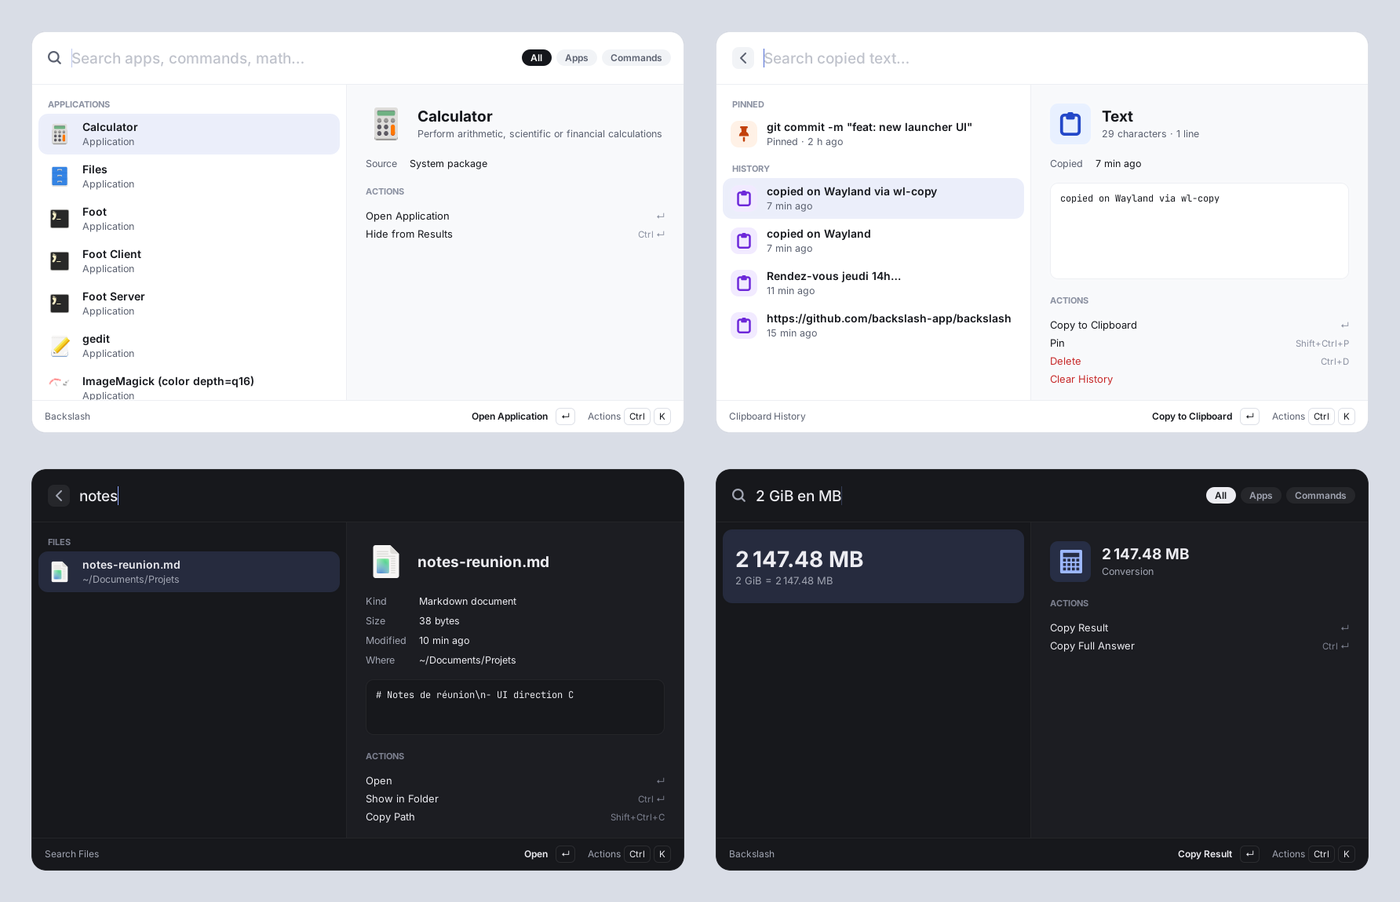
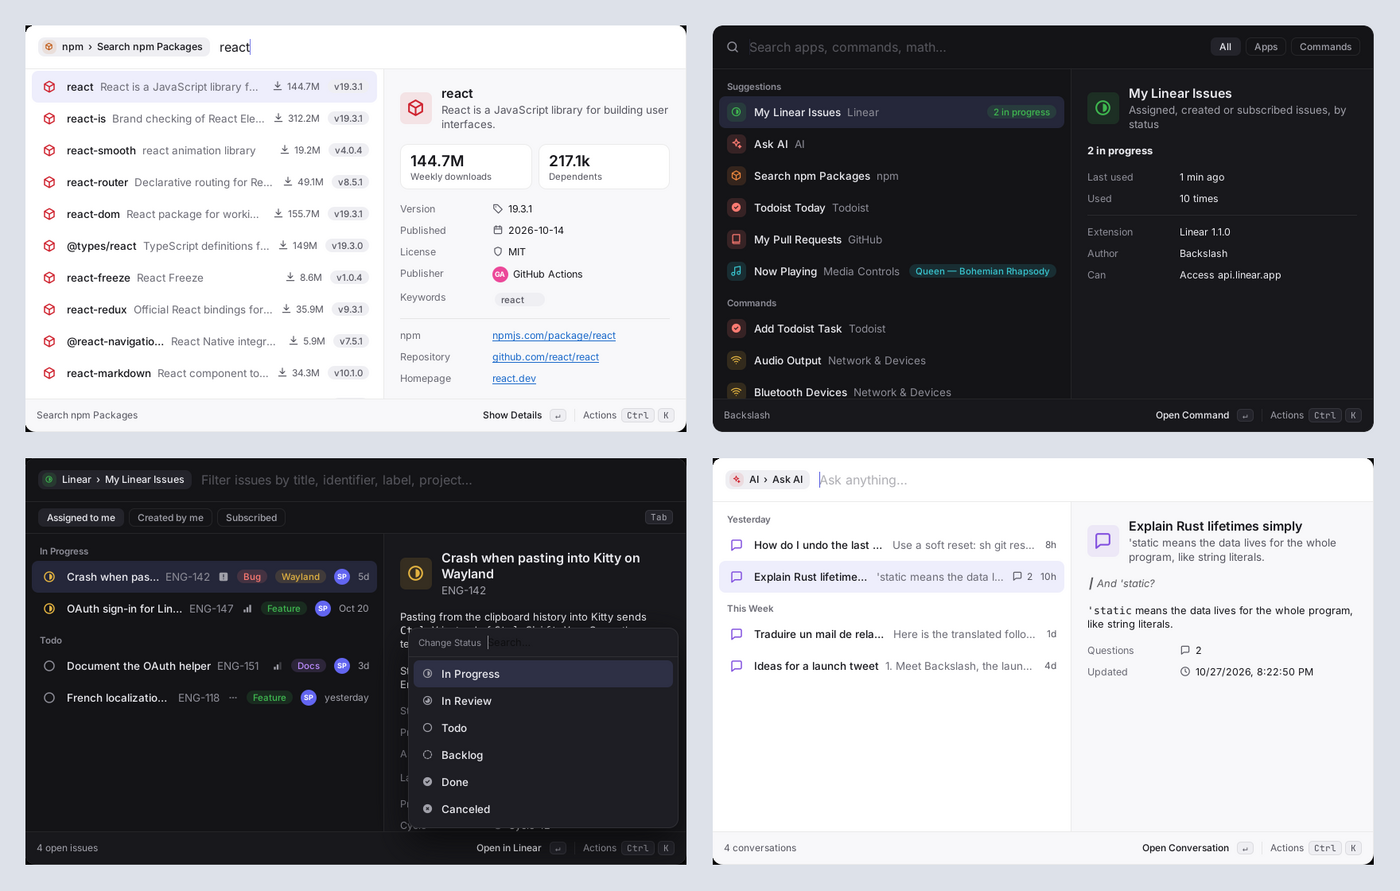
Refresh the README, screenshot and bundled extensions for the redesign
- New screenshot showing the redesigned launcher.
- README: preview panel, filters and submenus; the settings window and
  Ctrl+, to open it; accent and density in config.toml; every first-party
  extension; an npm example with a preview panel.
- ARCHITECTURE: glyphs, images and the settings window.
- npm and system extensions (the reference examples) use the new design:
  Backslash icons, downloads and dependents, metadata, sections.
- Ctrl+, opens the settings window.

Claude-Session: https://claude.ai/code/session_01WzDMDJteorsmKRm6FVPX94

diff --git a/extensions/npm/commands/search.ts b/extensions/npm/commands/search.ts
@@ -1,12 +1,20 @@
-import { action, copy, detail, list, open, storage } from "@backslash/api";
+import { action, copy, detail, Icons, type Item, list, meta, open, storage } from "@backslash/api";
 
 interface Package {
   name: string;
   version: string;
   description?: string;
+  keywords?: string[];
   date: string;
+  license?: string;
   links: { npm: string; homepage?: string; repository?: string };
   publisher?: { username: string };
+}
+
+interface Result {
+  package: Package;
+  downloads?: { weekly?: number };
+  dependents?: number | string;
 }
 
 async function remember(name: string) {
@@ -14,52 +22,86 @@ async function remember(name: string) {
   await storage.set("recent", [name, ...recent.filter((n) => n !== name)].slice(0, 10));
 }
 
-function item(pkg: Package) {
+/** 1234567 → "1.2M" */
+export function compact(n: number): string {
+  if (n >= 1e9) return `${(n / 1e9).toFixed(1).replace(/\.0$/, "")}B`;
+  if (n >= 1e6) return `${(n / 1e6).toFixed(1).replace(/\.0$/, "")}M`;
+  if (n >= 1e3) return `${(n / 1e3).toFixed(1).replace(/\.0$/, "")}k`;
+  return String(n);
+}
+
+/** "git+https://github.com/facebook/react.git" → "github.com/facebook/react" */
+export const shortUrl = (url: string) =>
+  url.replace(/^git\+/, "").replace(/^\w+:\/\//, "").replace(/\.git$/, "").replace(/\/$/, "").split("/").slice(0, 3)
+    .join("/");
+
+function metadata(pkg: Package) {
+  return [
+    meta.text("Version", pkg.version, { icon: Icons.tag }),
+    meta.text("Published", pkg.date.slice(0, 10), { icon: Icons.calendar }),
+    ...(pkg.license ? [meta.text("License", pkg.license, { icon: Icons.shield })] : []),
+    ...(pkg.publisher ? [meta.person("Publisher", pkg.publisher.username)] : []),
+    ...(pkg.keywords?.length ? [meta.tags("Keywords", pkg.keywords.slice(0, 6))] : []),
+    meta.separator(),
+    meta.link("npm", `npmjs.com/package/${pkg.name}`, pkg.links.npm),
+    ...(pkg.links.repository ? [meta.link("Repository", shortUrl(pkg.links.repository), pkg.links.repository)] : []),
+    ...(pkg.links.homepage ? [meta.link("Homepage", shortUrl(pkg.links.homepage), pkg.links.homepage)] : []),
+  ];
+}
+
+function item({ package: pkg, downloads, dependents }: Result): Item {
+  const stats = [
+    ...(downloads?.weekly !== undefined ? [{ label: "Weekly downloads", value: compact(downloads.weekly) }] : []),
+    ...(dependents !== undefined ? [{ label: "Dependents", value: compact(Number(dependents)) }] : []),
+  ];
   return {
     id: pkg.name,
     title: pkg.name,
     subtitle: pkg.description,
-    icon: "package-x-generic",
-    tags: [`v${pkg.version}`],
+    icon: { source: Icons.package, tint: "red" },
+    accessories: [
+      ...(downloads?.weekly !== undefined
+        ? [{ icon: Icons.download, text: compact(downloads.weekly), tooltip: "Weekly downloads" }]
+        : []),
+      { tag: `v${pkg.version}` },
+    ],
+    detail: { stats, metadata: metadata(pkg) },
     actions: [
       action("Show Details", async () => {
         await remember(pkg.name);
         return detail({
           title: pkg.name,
           markdown: `# ${pkg.name}\n\n${pkg.description ?? ""}\n\n\`\`\`sh\nnpm install ${pkg.name}\n\`\`\``,
-          metadata: {
-            Version: pkg.version,
-            Published: pkg.date.slice(0, 10),
-            Publisher: pkg.publisher?.username ?? "—",
-          },
+          stats,
+          metadata: metadata(pkg),
           actions: [open(pkg.links.npm, "Open on npmjs.com"), copy(`npm install ${pkg.name}`, "Copy Install Command")],
         });
-      }),
+      }, { icon: Icons.info }),
       open(pkg.links.npm, "Open on npmjs.com"),
-      ...(pkg.links.repository ? [open(pkg.links.repository, "Open Repository", { icon: "folder-remote" })] : []),
-      copy(`npm install ${pkg.name}`, "Copy npm install", { shortcut: "<Ctrl><Shift>c" }),
-      copy(pkg.name, "Copy Package Name"),
+      ...(pkg.links.repository ? [open(pkg.links.repository, "Open Repository", { icon: Icons.repository })] : []),
+      copy(`npm install ${pkg.name}`, "Copy npm install", { shortcut: "<Ctrl><Shift>c", section: "Copy" }),
+      copy(pkg.name, "Copy Package Name", { section: "Copy" }),
     ],
   };
 }
 
 export default list({
   placeholder: "Search npm packages…",
-  empty: { title: "Type to search the npm registry", icon: "system-search" },
+  empty: { title: "Type to search the npm registry", icon: Icons.search },
   async search(query, { signal }) {
     if (!query.trim()) {
       const recent = (await storage.get<string[]>("recent")) ?? [];
       return recent.map((name) => ({
         title: name,
         section: "Recently viewed",
-        icon: "document-open-recent",
+        icon: Icons.history,
         actions: [open(`https://www.npmjs.com/package/${name}`, "Open on npmjs.com")],
       }));
     }
     const url = `https://registry.npmjs.org/-/v1/search?size=20&text=${encodeURIComponent(query)}`;
     const res = await fetch(url, { signal });
     if (!res.ok) throw new Error(`npm registry answered ${res.status}`);
-    const { objects } = await res.json() as { objects: { package: Package }[] };
-    return objects.map((o) => item(o.package));
+    const { objects } = await res.json() as { objects: Result[] };
+    return objects.map(item);
   },
 });

diff --git a/extensions/system/commands/processes.ts b/extensions/system/commands/processes.ts
@@ -1,4 +1,4 @@
-import { action, copy, exec, list, refresh } from "@backslash/api";
+import { action, copy, exec, Icons, list, meta, refresh } from "@backslash/api";
 
 interface Process {
   pid: string;
@@ -17,30 +17,49 @@ async function processes(): Promise<Process[]> {
   });
 }
 
+let total = 0;
+
 export default list({
   placeholder: "Filter processes…",
-  items: async () =>
-    (await processes()).slice(0, 200).map((p) => ({
+  status: (items) => `${items.length} of ${total} processes · by CPU`,
+  items: async () => {
+    const all = await processes();
+    total = all.length;
+    return all.slice(0, 200).map((p) => ({
       id: p.pid,
       title: p.name,
       subtitle: p.command,
-      icon: "application-x-executable",
+      icon: { source: Icons.cpu, tint: p.cpu > 50 ? "red" : p.cpu > 10 ? "orange" : "gray" },
       keywords: [p.pid, p.user],
       accessories: [
-        { text: `${p.cpu.toFixed(1)}% CPU`, color: p.cpu > 50 ? "red" : undefined },
-        { text: `${p.memMb.toFixed(0)} MB` },
-        { tag: p.pid },
+        { text: `${p.cpu.toFixed(1)}%`, color: p.cpu > 50 ? "red" : undefined, tooltip: "CPU" },
+        { text: `${p.memMb.toFixed(0)} MB`, tooltip: "Memory" },
       ],
+      detail: {
+        stats: [{ label: "CPU", value: `${p.cpu.toFixed(1)}%` }, {
+          label: "Memory",
+          value: `${p.memMb.toFixed(0)} MB`,
+        }],
+        metadata: [
+          meta.text("PID", p.pid, { icon: Icons.hash }),
+          meta.person("User", p.user),
+          meta.progress("CPU", Math.min(p.cpu / 100, 1), `${p.cpu.toFixed(1)}%`),
+          meta.separator(),
+          meta.text("Command", p.command),
+        ],
+      },
       actions: [
         action("Stop Process", async () => {
           await exec("kill", [p.pid]);
           return refresh();
-        }, { icon: "process-stop", destructive: true }),
+        }, { icon: Icons.stop, destructive: true }),
         action("Force Kill", async () => {
           await exec("kill", ["-9", p.pid]);
           return refresh();
-        }, { icon: "process-stop", destructive: true, confirm: `Force kill ${p.name}?`, shortcut: "<Ctrl><Shift>k" }),
-        copy(p.pid, "Copy PID", { shortcut: "<Ctrl><Shift>c" }),
+        }, { icon: Icons.cross, destructive: true, confirm: `Force kill ${p.name}?`, shortcut: "<Ctrl><Shift>k" }),
+        copy(p.pid, "Copy PID", { shortcut: "<Ctrl><Shift>c", section: "Copy" }),
+        copy(p.command, "Copy Command", { section: "Copy" }),
       ],
-    })),
+    }));
+  },
 });

diff --git a/extensions/system/commands/power.ts b/extensions/system/commands/power.ts
@@ -1,23 +1,23 @@
-import { action, close, exec, list } from "@backslash/api";
+import { action, close, type Color, exec, Icons, list } from "@backslash/api";
 
-const power = (title: string, icon: string, program: string, args: string[], confirm?: string) => ({
+const power = (title: string, icon: string, tint: Color, program: string, args: string[], confirm?: string) => ({
   title,
-  icon,
+  icon: { source: icon, tint },
   actions: [
     action(title, async () => {
       await exec(program, args);
       return close();
-    }, { confirm, destructive: Boolean(confirm) }),
+    }, { icon, confirm, destructive: Boolean(confirm) }),
   ],
 });
 
 export default list({
   placeholder: "Power…",
   items: [
-    power("Lock Screen", "system-lock-screen", "loginctl", ["lock-session"]),
-    power("Suspend", "weather-clear-night", "systemctl", ["suspend"]),
-    power("Restart", "system-reboot", "systemctl", ["reboot"], "Restart now?"),
-    power("Shut Down", "system-shutdown", "systemctl", ["poweroff"], "Shut down now?"),
-    power("Log Out", "system-log-out", "loginctl", ["terminate-user", "self"], "Log out now?"),
+    power("Lock Screen", Icons.lock, "blue", "loginctl", ["lock-session"]),
+    power("Suspend", Icons.moon, "purple", "systemctl", ["suspend"]),
+    power("Restart", Icons.refresh, "orange", "systemctl", ["reboot"], "Restart now?"),
+    power("Shut Down", Icons.power, "red", "systemctl", ["poweroff"], "Shut down now?"),
+    power("Log Out", Icons.arrowRight, "gray", "loginctl", ["terminate-user", "self"], "Log out now?"),
   ],
 });

diff --git a/crates/backslash/src/launcher/mod.rs b/crates/backslash/src/launcher/mod.rs
@@ -1931,6 +1931,10 @@ impl Launcher {
                 self.open_action_panel();
                 return Stop;
             }
+            gdk::Key::comma if ctrl => {
+                self.open_settings(None);
+                return Stop;
+            }
             _ => {}
         }
 

diff --git a/README.md b/README.md
@@ -31,6 +31,9 @@
 - **Extensions that are easy to write.** TypeScript, no build step, no
   `node_modules`. Describe a list, the launcher does the rest: fuzzy search,
   keyboard navigation, action panel, cancellation of slow requests.
+- **Information, not just lists.** A preview panel with key numbers, tags,
+  people, links and progress; filters (<kbd>Tab</kbd>), sections, submenus in
+  the action panel, and live subtitles in the root search ("2 in progress").
 - **Useful out of the box.** Calculator and unit/currency conversions as you
   type, clipboard history, file search with previews, window switcher,
   quicklinks and snippets.
@@ -59,17 +62,22 @@ title = "Search npm Packages"
 `commands/search.ts`:
 
 ```ts
-import { copy, list, open } from "@backslash/api";
+import { copy, Icons, list, meta, open } from "@backslash/api";
 
 export default list({
   placeholder: "Search npm packages…",
   async search(query, { signal }) {
     const res = await fetch(`https://registry.npmjs.org/-/v1/search?text=${query}`, { signal });
     const { objects } = await res.json();
-    return objects.map(({ package: pkg }) => ({
+    return objects.map(({ package: pkg, downloads }) => ({
       title: pkg.name,
       subtitle: pkg.description,
+      icon: { source: Icons.package, tint: "red" },
       tags: [`v${pkg.version}`],
+      detail: {
+        stats: [{ label: "Weekly downloads", value: downloads.weekly.toLocaleString() }],
+        metadata: [meta.text("License", pkg.license), meta.person("Publisher", pkg.publisher.username)],
+      },
       actions: [open(pkg.links.npm), copy(`npm install ${pkg.name}`, "Copy Install Command")],
     }));
   },
@@ -87,8 +95,10 @@ The [registry](https://github.com/backslash-app/plugins) lists extensions that
 live in their authors' repositories, each pinned to a reviewed commit with a
 checksum: you see exactly what an extension may do before installing, and
 Backslash refuses any file that differs from what was reviewed. First-party
-extensions: GitHub, Packages (apt/dnf/pacman/zypper/Flathub), Services
-(systemd), Containers (Docker/Podman), Emoji & Symbols.
+extensions: GitHub, Linear, Todoist, AI (Claude, OpenAI, Mistral, Groq,
+OpenRouter, Ollama), Media Controls, Browser, Code Projects, Network & Devices,
+Timers, Ports, Packages (apt/dnf/pacman/zypper/Flathub), Services (systemd),
+Containers (Docker/Podman), Emoji & Symbols.
 
 ## Install
 
@@ -161,10 +171,10 @@ Run the **Enable Launch at Login** command so Backslash is always ready.
 | Key | Action |
 |---|---|
 | type | search apps and commands; math and conversions are computed as you type |
-| <kbd>Tab</kbd> | filter: All, Apps, Commands |
+| <kbd>Tab</kbd> | filter: All, Apps, Commands (and an extension's own filters) |
 | <kbd>↑</kbd> <kbd>↓</kbd> / <kbd>Ctrl</kbd>+<kbd>N</kbd> <kbd>P</kbd> | move |
 | <kbd>Enter</kbd> / <kbd>Ctrl</kbd>+<kbd>Enter</kbd> | primary / secondary action |
-| <kbd>Ctrl</kbd>+<kbd>K</kbd> | all actions |
+| <kbd>Ctrl</kbd>+<kbd>K</kbd> | all actions; <kbd>→</kbd> opens a submenu, <kbd>←</kbd> goes back |
 | <kbd>Esc</kbd> / <kbd>Backspace</kbd> on empty search | back, then close |
 
 Results learn from you: what you pick for a given query comes first next time.
@@ -189,7 +199,8 @@ Built in:
 - **Switch Windows**: Hyprland, Sway, niri, KDE Plasma (through a KWin
   script, nothing to install), GNOME (through a tiny Shell extension the
   launcher installs for you, or "Window Calls") and X11.
-- **Change Theme**: light, dark, or following the system.
+- **Settings**: a window for the shortcut, theme, accent color, density,
+  extensions, clipboard history, quicklinks and snippets.
 
 ## Script commands
 
@@ -220,15 +231,18 @@ files.
 
 ## Make it yours
 
-Everything is in the **Settings** command: theme, shortcut, launch at login,
-clipboard history, extensions (enable, see their permissions, configure them),
-quicklinks, snippets and hidden apps. It all lives in plain files, so you can
+Everything is in the **Settings** window (<kbd>Ctrl</kbd>+<kbd>,</kbd>, or the
+Settings command): shortcut, launch at login, theme, accent color and density,
+clipboard history, extensions (enable, aliases and hotkeys of each command,
+permissions, preferences), quicklinks, snippets and hidden apps. It all lives in plain files, so you can
 also edit them by hand or keep them in your dotfiles.
 
 `~/.config/backslash/config.toml`:
 
 ```toml
 theme = "system"          # "light", "dark" or "system"
+accent = "indigo"         # "blue", "green", "orange", "pink" or "graphite"
+density = "comfortable"   # or "compact"
 hotkey = "Super+Space"
 hidden_apps = ["org.gnome.Tour.desktop"]
 

diff --git a/docs/ARCHITECTURE.md b/docs/ARCHITECTURE.md
@@ -34,14 +34,15 @@
   under XDG directories, friendly to dotfiles.
 - **Linux-native.** Applications come from GIO (all XDG rules, Flatpak and Snap
   exports, D-Bus activation), the color scheme from the settings portal,
-  icons from the user's icon theme.
+  icons from the user's icon theme (and Backslash's own `bs-*` glyphs, drawn
+  in the theme's colors so extensions look the same on every desktop).
 
 ## Crates and folders
 
 | Path | Role |
 |---|---|
 | `crates/backslash-core` | Protocol types, manifest parsing, extension host, ranking, calculator, unit conversions, config, `catalog` (registry: fetch, verify, install, publish), `approvals`, `secrets`, and `system/` (clipboard history store, file search, window backends). No GTK. |
-| `crates/backslash` | GTK4 window (`launcher/`: state and navigation, rows, widgets), CLI (`cli.rs`), app discovery (`apps.rs`), themes (`theme.rs` palettes + `style.css` layout), global shortcut portal (`hotkey.rs`), layer-shell (`layer.rs`), clipboard watcher, exchange rates, autostart. |
+| `crates/backslash` | GTK4 window (`launcher/`: state and navigation, rows, widgets, settings window), CLI (`cli.rs`), app discovery (`apps.rs`), icons (`glyphs.rs`: Backslash's own vector icons, `icons.rs`: tiles, avatars, accessories), pictures from the web (`images.rs`, limited to the extension's `net` hosts), themes (`theme.rs` palettes and accents + `style.css` layout), global shortcut portal (`hotkey.rs`), layer-shell (`layer.rs`), clipboard watcher, exchange rates, autostart. |
 | `sdk/` | TypeScript API (`mod.ts`) and protocol runtime (`runtime.ts`), run by Deno. |
 | `extensions/` | Bundled extensions, also the reference examples. |
 
